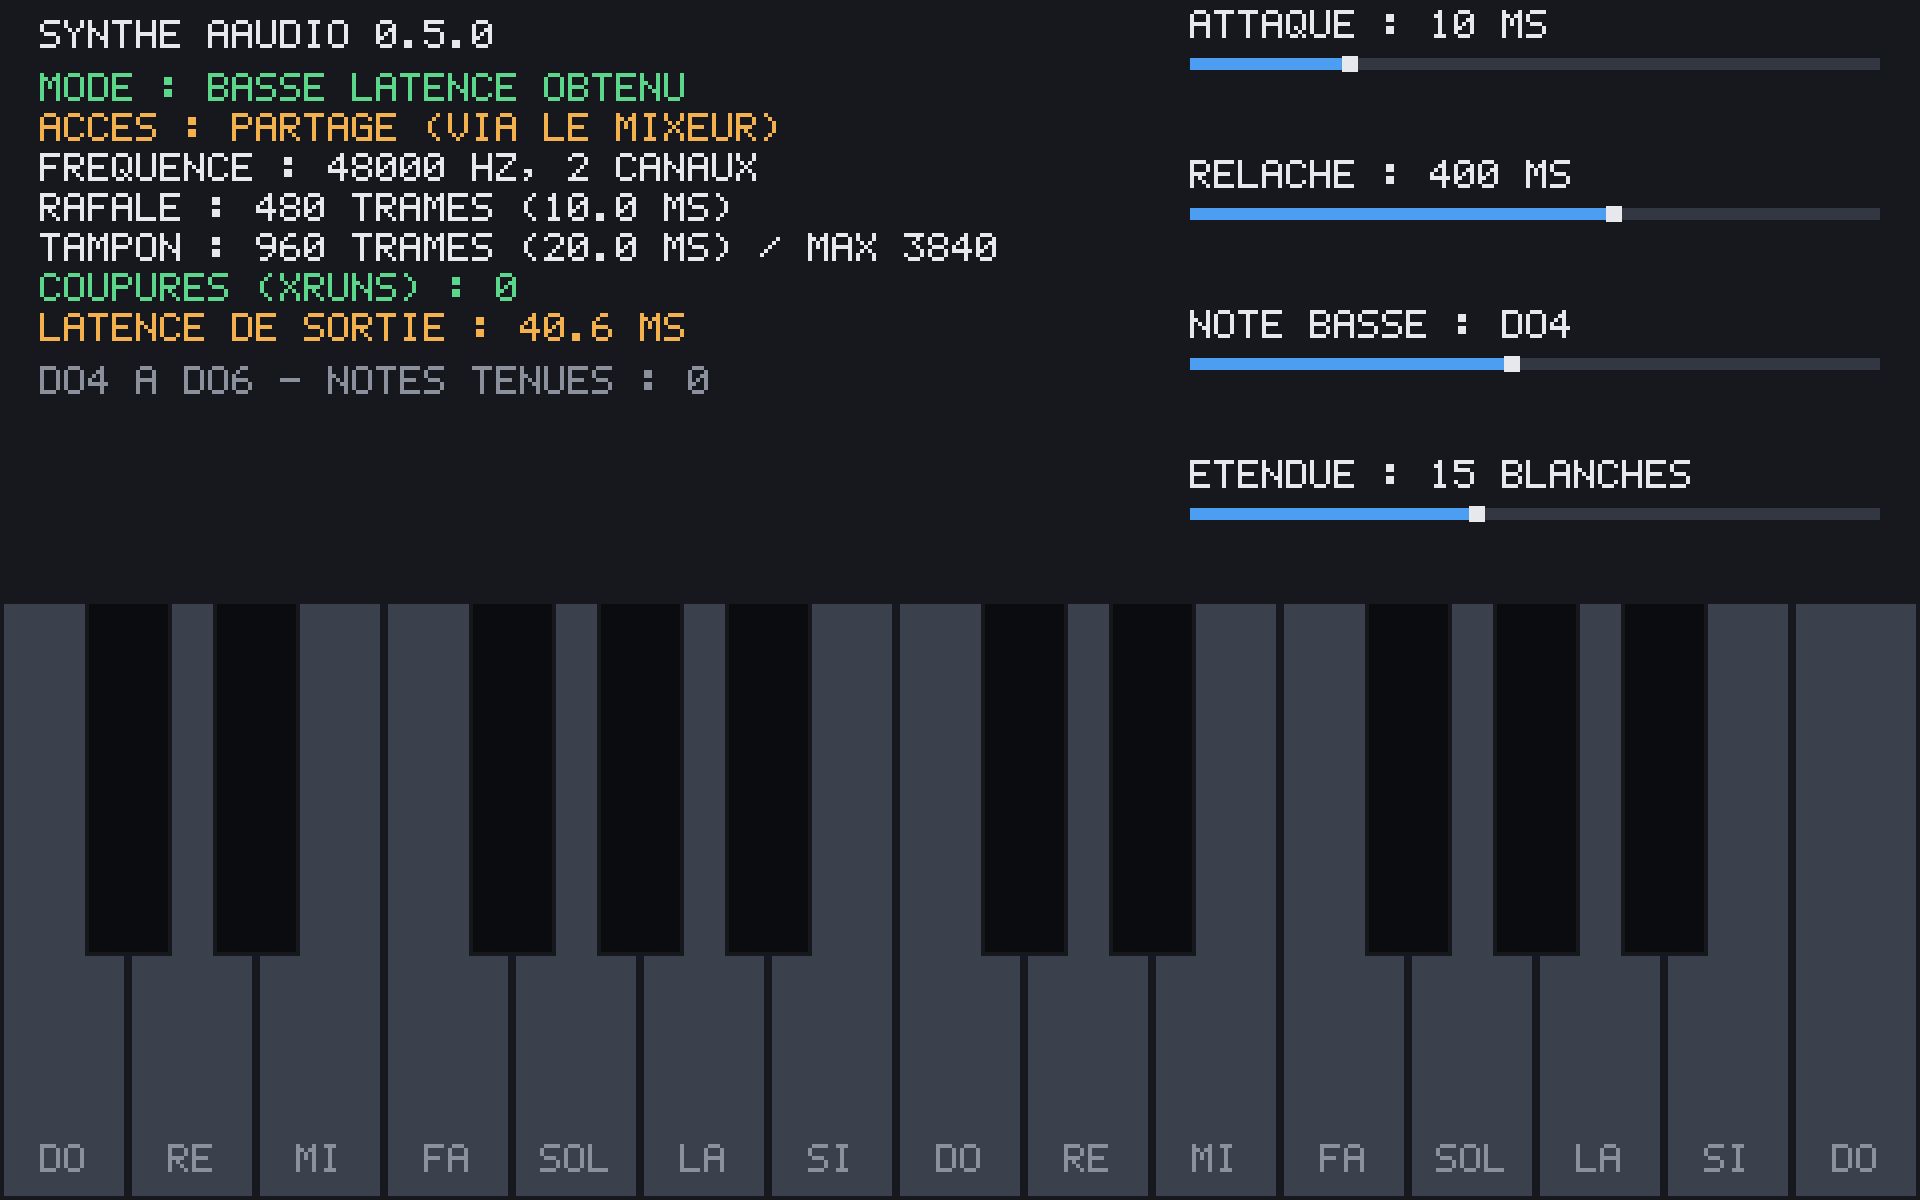
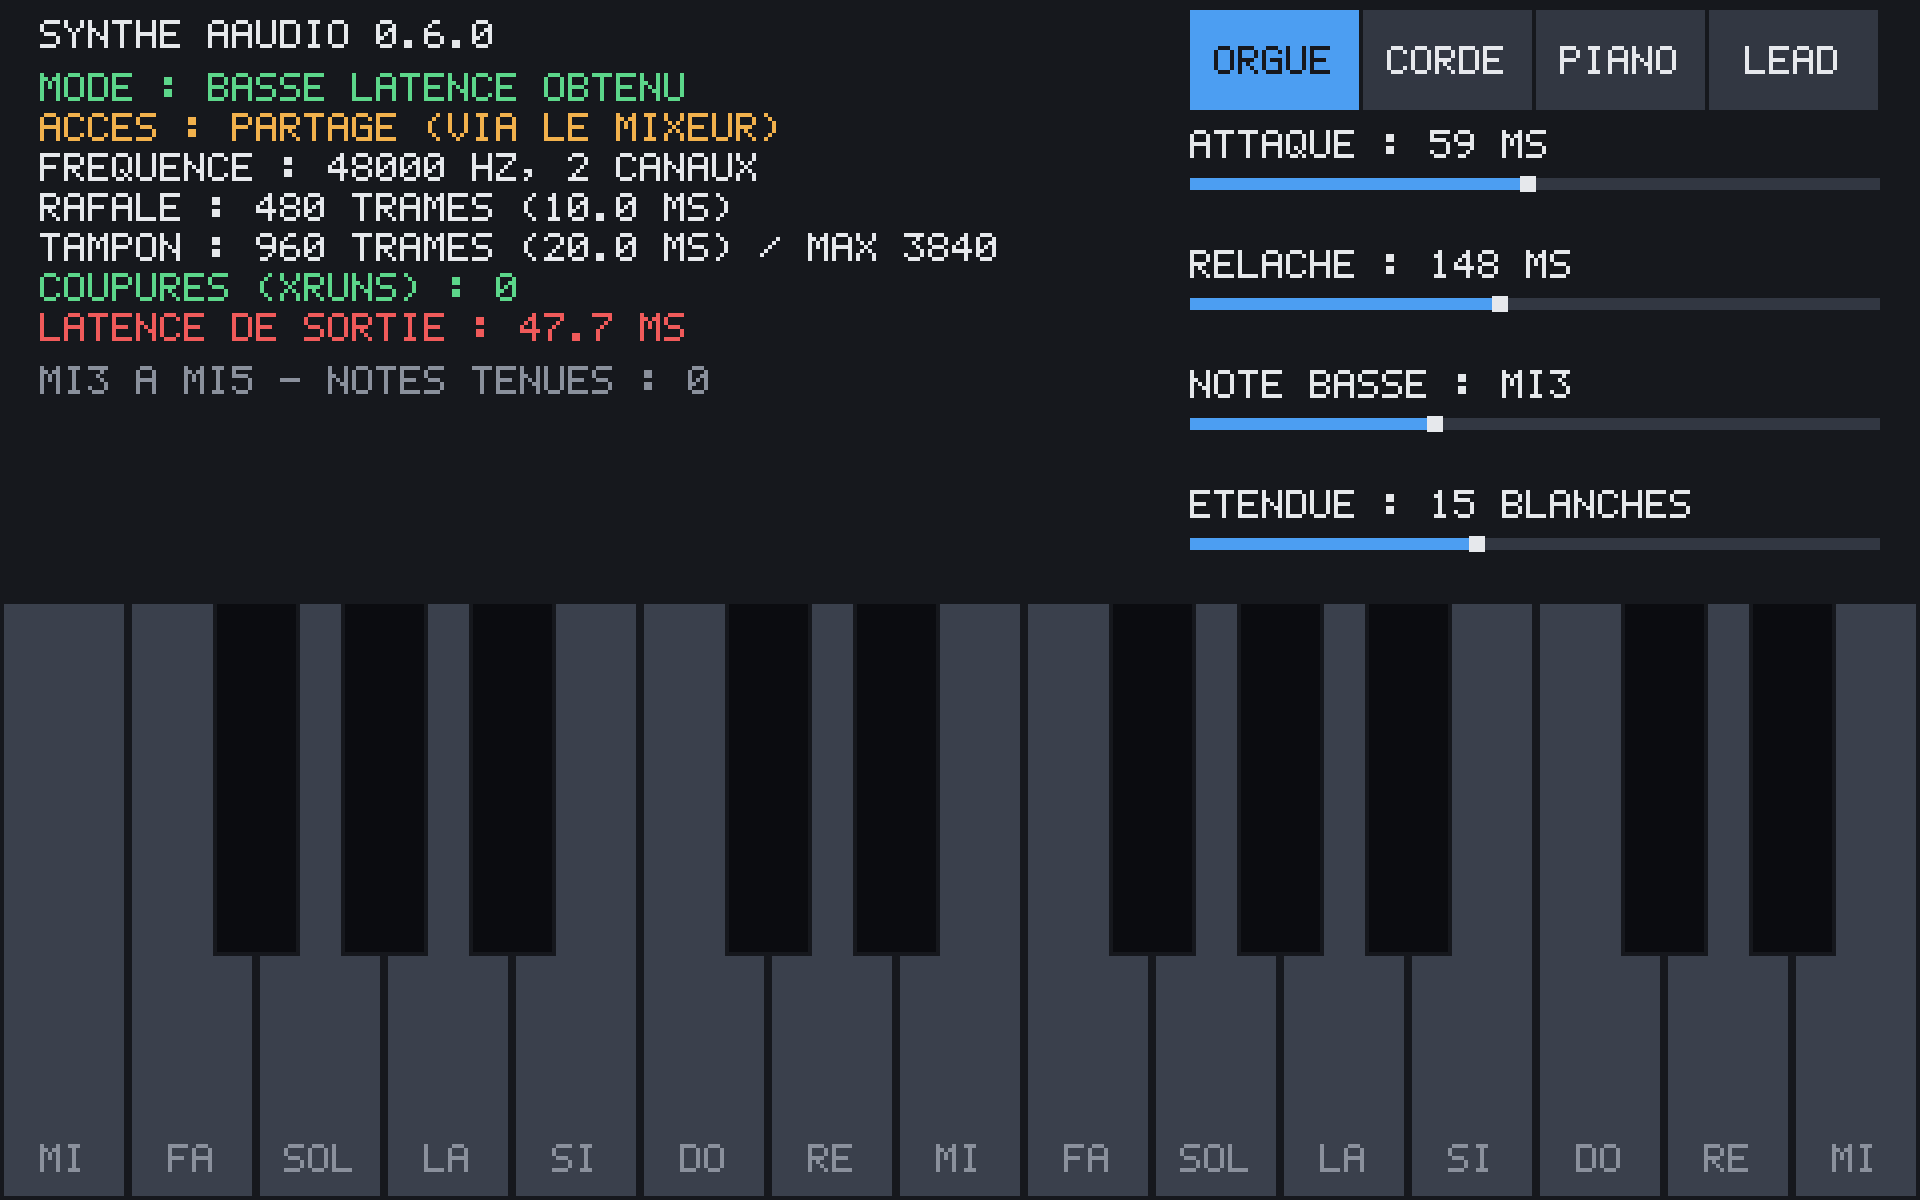
README : capture d'écran et lien de téléchargement de la 0.6

diff --git a/README.md b/README.md
@@ -3,11 +3,11 @@
 Petit synthétiseur pour Android, écrit en Rust sans aucune dépendance. L'APK
 fait environ 200 Ko.
 
-![Interface de Simpletones : diagnostic audio, curseurs et clavier](docs/screenshot.png)
+![Interface de Simpletones : diagnostic audio, timbres, curseurs et clavier](docs/screenshot.png)
 
 ## Télécharger
 
-**[Télécharger l'APK (version 0.5)](https://github.com/s1pierro/simpletones/releases/download/v0.5/synthe-aaudio-0.5.apk)**
+**[Télécharger l'APK (version 0.6)](https://github.com/s1pierro/simpletones/releases/download/v0.6/synthe-aaudio-0.6.apk)**
 
 Pour les appareils ARM 64 bits, sous Android 8.0 ou plus récent. L'APK étant
 signé avec une clé de debug, Android demandera d'autoriser l'installation depuis
